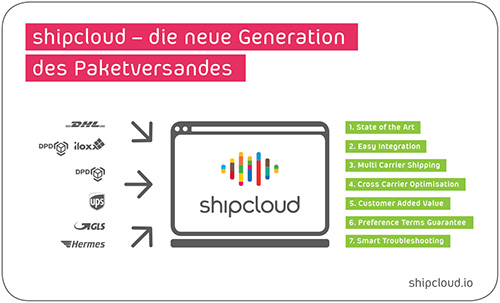
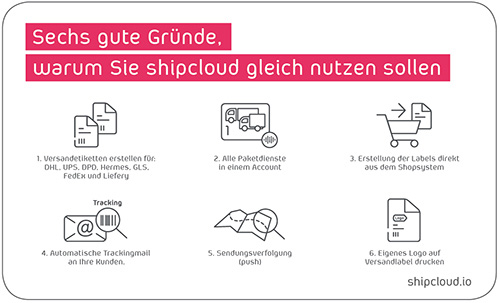
Updated shipcloud partner page
git-svn-id: https://svn.modified-shop.org/svn/modified-shop/tags/modified-shop-1.06@9020 79ac0487-9261-4f26-a34d-858dee0dcce0

diff --git a/admin/shipcloud.php b/admin/shipcloud.php
@@ -63,13 +63,13 @@ require (DIR_WS_INCLUDES.'head.php');
               <img src="images/shipcloud/Ideenkurier_Grafik_No1.jpg" />
               <img src="images/shipcloud/Ideenkurier_Grafik_No2.jpg" /><br />
               <br />
-              Mit dem PlugIn &bdquo;shipcloud&ldquo; k&ouml;nnen Sie aus dem Backend Ihrer modified eCommerce Shopsoftware heraus Versandetiketten erzeugen. Es werden alle relevanten Paketdienste unterst&uuml;tzt: DHL, UPS, DPD, Hermes, GLS, ILOXX, FedEx und Liefery. Sie brauchen nur einen shipcloud-Account, und k&ouml;nnen sofort mit dem Paket Ihrer Wahl zu g&uuml;nstigen Konditionen verschicken und verfolgen.<br />
+              Mit dem Modul &bdquo;shipcloud&ldquo; k&ouml;nnen Sie aus dem Backend Ihrer modified eCommerce Shopsoftware heraus Versandetiketten erzeugen. Es werden alle relevanten Paketdienste unterst&uuml;tzt: DHL, UPS, DPD, Hermes, GLS, ILOXX, FedEx und Liefery. Sie brauchen nur einen shipcloud-Account, und k&ouml;nnen sofort mit dem Paket Ihrer Wahl zu g&uuml;nstigen Konditionen verschicken und verfolgen.<br />
               <br />
               Sollten Sie bereits Vertr&auml;ge mit einem oder mehreren Paketdiensten haben, k&ouml;nnen Sie diese in shipcloud verwenden und mit ihren eigenen Account-Daten Versandlabels erstellen.<br />
               <br />
               <font color="#91c24f">
               <ul>
-                <li style="list-style-type: circle !important;"><strong>Weitere Informationen zu shipcloud finden Sie hier: <a href="http://www.shipcloud.io/de/lp/modified" target="_blank"><font style="font-size:12px; color:#56a5cf;"><u><strong>Klick mich!</strong></u></font></a></strong></li>
+                <li style="list-style-type: circle !important;"><strong>Weitere Informationen zu shipcloud finden Sie hier: <a href="https://www.shipcloud.io/de/lp/modified/?pc=modified" target="_blank"><font style="font-size:12px; color:#56a5cf;"><u><strong>Klick mich!</strong></u></font></a></strong></li>
               </ul>
               </font>
               <br />
@@ -77,7 +77,7 @@ require (DIR_WS_INCLUDES.'head.php');
               <font color="#91c24f">
               <ul>
                 <li style="list-style-type: circle !important;">modified eCommerce Shopsoftware, Version 2.00</li>
-                <li style="list-style-type: circle !important;">shipcloud Account</li>
+                <li style="list-style-type: circle !important;"><a href="https://www.shipcloud.io/de/lp/modified/?pc=modified" target="_blank"><font style="font-size:12px; color:#56a5cf;"><u><strong>shipcloud Account</strong></u></font></a></li>
               </ul>
               </font>
               <br />
@@ -90,9 +90,11 @@ require (DIR_WS_INCLUDES.'head.php');
                 <li style="list-style-type: circle !important;">Direkte Erstellung der Labels aus dem Backend der modified eCommerce Shopsoftware heraus, &uuml;ber die shipcloud-API, kein Hantieren mit CSV-Dateien.</li>
                 <li style="list-style-type: circle !important;">Automatische Hinterlegung der Trackingcodes in den Bestelldetails.</li>
                 <li style="list-style-type: circle !important;">Automatische &Auml;nderung des Bestellstatus nach der Etiketten-Erstellung m&ouml;glich, schicken Sie z.B. eine E-Mail mit entsprechendem Trackingcode an Ihre Kunden.</li>
+                <?php /*
                 <li style="list-style-type: circle !important;">Automatische Berechnung des Versandgewichts (pauschales Versandgewicht ebenfalls m&ouml;glich).</li>
                 <li style="list-style-type: circle !important;">Automatische Berechnung der Packst&uuml;ck-Anzahl.</li>
                 <li style="list-style-type: circle !important;">Stapelverarbeitung &ndash; Erstellen Sie beliebig viele Etiketten gleichzeitig.</li>
+                */ ?>
                 <li style="list-style-type: circle !important;">Sendungsverfolgung direkt aus den Bestelldetails m&ouml;glich.</li>
                 <li style="list-style-type: circle !important;">Porto-/ Versandkosten werden in der Etiketten&uuml;bersicht angezeigt.</li>
                 <li style="list-style-type: circle !important;">Ihr eigenes Shop-Logo auf den Versandetiketten.</li>